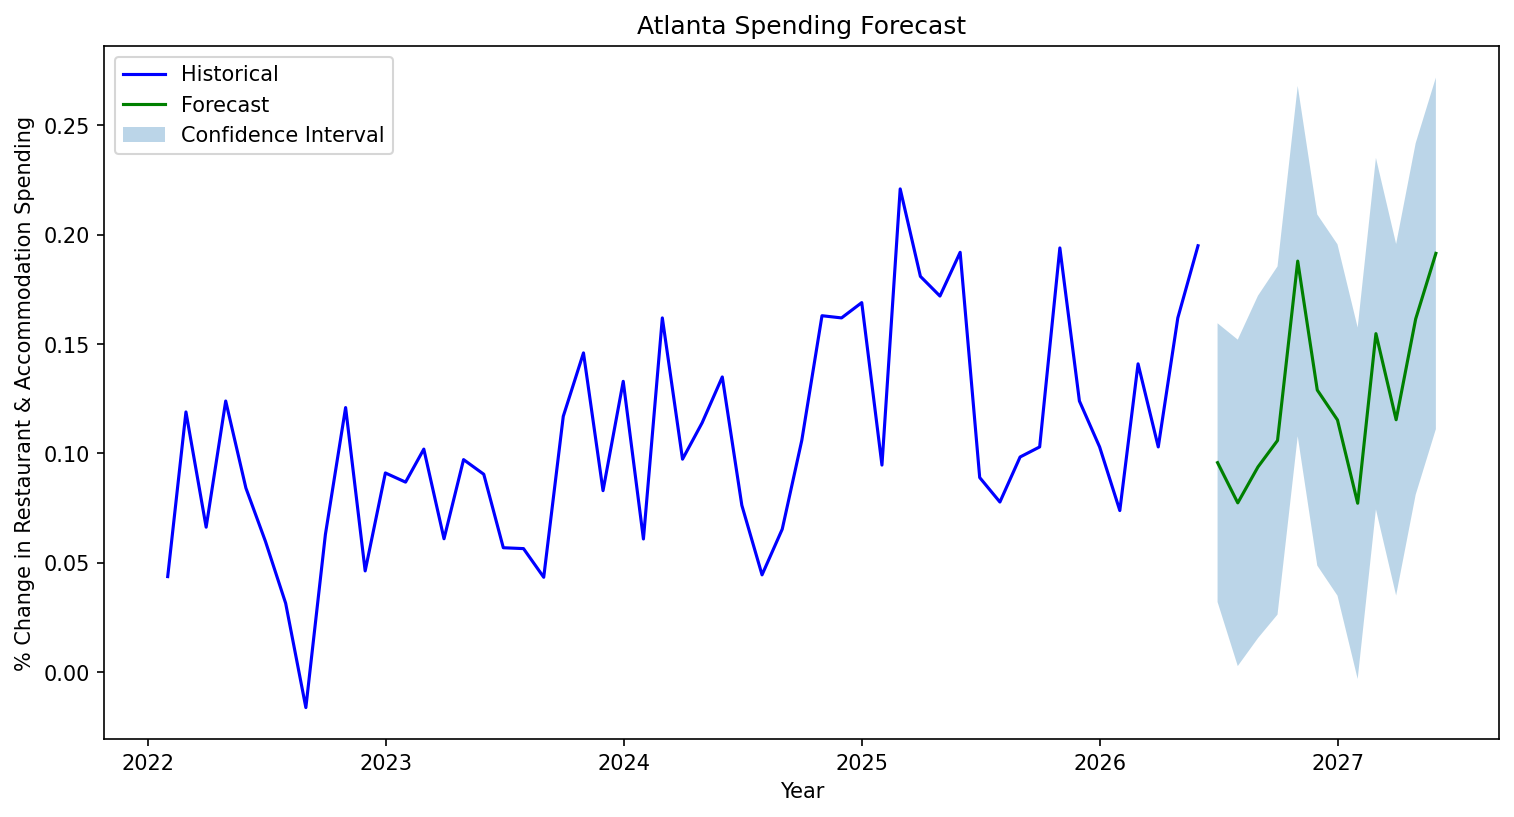
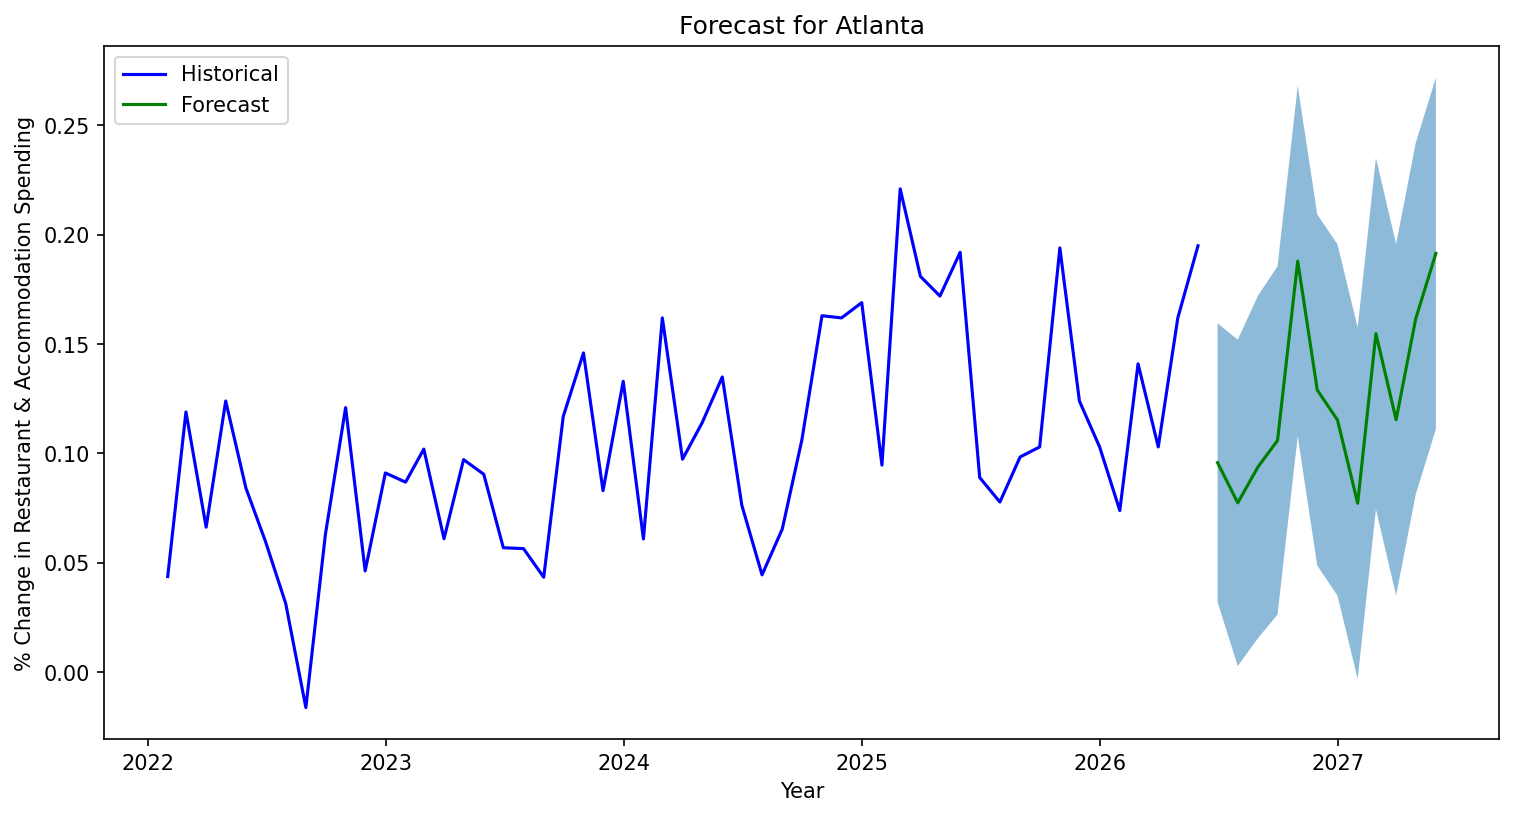
host and non-host prediction, updated source

diff --git a/README.md b/README.md
@@ -10,3 +10,6 @@
 
 # Answer based off our data
 # X City's restaurants spending typically averages X% higher in June and July than winter months based on historical data. Based off recent world cup data we have seen consumer spending increase X% to this average, so for the duration of the world cup expect consumer spending in XYZ cities to increase by X% compared to summers over the past 4 years.
+
+# Source
+https://economictracker.org/